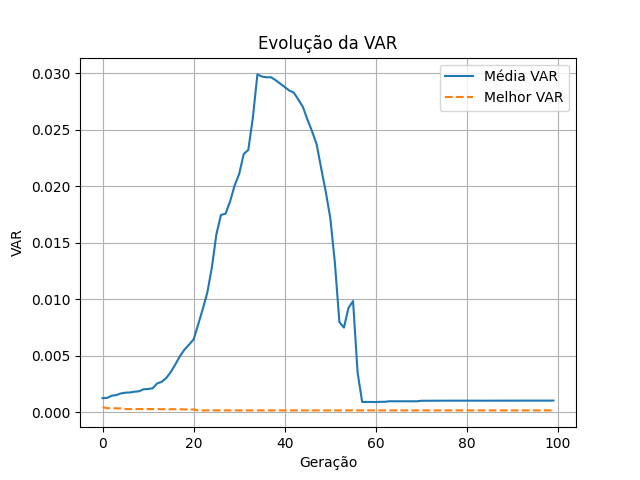
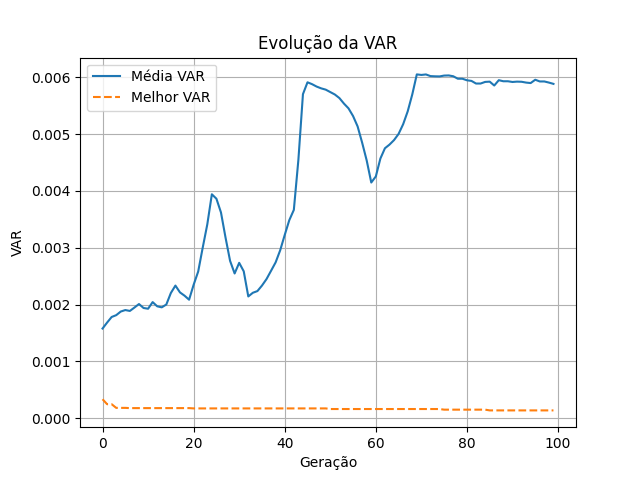
hdbscan

diff --git a/utils.py b/utils.py
@@ -27,36 +27,77 @@ def selecionar_tickers_representativos(
     df_filtrado: pd.DataFrame, num_tickers: int
 ) -> Tuple[pd.DataFrame, List[str]]:
     """
-    Aplica HDBSCAN para selecionar os tickers mais representativos com base nos log_returns.
+    Aplica HDBSCAN para selecionar tickers representativos:
+    um ou mais por cluster, priorizando clusters maiores e centralidade.
 
     Args:
         df_filtrado: DataFrame com tickers completos.
-        num_tickers: Número de tickers representativos a retornar.
+        num_tickers: Número total de tickers representativos a retornar.
 
     Returns:
         df_final: DataFrame apenas com os tickers selecionados.
         tickers_selecionados: Lista de tickers mais representativos.
     """
+    # Pivotar log_returns por semana
     df_pivot = df_filtrado.pivot_table(
         index='ticker',
         columns=['year', 'month', 'week_start'],
         values='log_return'
     ).fillna(0)
 
-    X = StandardScaler().fit_transform(df_pivot)
+    # Padronizar
+    scaler = StandardScaler()
+    X = scaler.fit_transform(df_pivot)
 
+    # Rodar HDBSCAN
     clusterer = hdbscan.HDBSCAN(min_cluster_size=5)
     cluster_labels = clusterer.fit_predict(X)
 
+    # DataFrame com labels
     df_clusters = pd.DataFrame({
         'ticker': df_pivot.index,
         'cluster': cluster_labels
     })
 
-    maior_cluster = df_clusters['cluster'].value_counts().idxmax()
-    tickers_maior_cluster = df_clusters[df_clusters['cluster'] == maior_cluster]['ticker'].tolist()
+    # Agrupar tickers por cluster (excluindo outliers)
+    clusters_validos = df_clusters[df_clusters['cluster'] != -1].groupby('cluster')
 
-    tickers_selecionados = tickers_maior_cluster[:num_tickers]
+    # Organizar clusters por tamanho (decrescente)
+    clusters_ordenados = sorted(
+        clusters_validos.groups.items(),
+        key=lambda item: len(item[1]),
+        reverse=True
+    )
+
+    tickers_selecionados = []
+
+    # Adicionar representantes até alcançar o total desejado
+    i = 0
+    while len(tickers_selecionados) < num_tickers:
+        for cluster_id, indices_cluster in clusters_ordenados:
+            if len(tickers_selecionados) >= num_tickers:
+                break
+            if i >= len(indices_cluster):
+                continue  # Esse cluster não tem mais representantes
+
+            tickers_cluster = df_clusters.loc[indices_cluster, 'ticker'].values
+            X_cluster = X[indices_cluster]
+
+            # Centrôide do cluster
+            centroide = X_cluster.mean(axis=0)
+
+            # Distâncias ao centróide
+            distancias = np.linalg.norm(X_cluster - centroide, axis=1)
+
+            # Ordenar os tickers do cluster por distância ao centróide
+            ordenacao = np.argsort(distancias)
+            if i < len(ordenacao):
+                ticker = tickers_cluster[ordenacao[i]]
+                if ticker not in tickers_selecionados:
+                    tickers_selecionados.append(ticker)
+        i += 1
+
+    # Filtrar DataFrame original
     df_final = df_filtrado[df_filtrado['ticker'].isin(tickers_selecionados)]
 
     return df_final, tickers_selecionados
@@ -113,10 +154,8 @@ def feasible(individuo: List[float], n_ativos: int) -> bool:
 
     soma_pesos = pesos.sum()
     num_selecionados = selecionados.sum()
-    # DEBUG
-    print(f"[FEASIBLE] Soma pesos: {soma_pesos:.4f} | Selecionados: {num_selecionados} | Viável? {abs(soma_pesos - 1) <= 0.01 and num_selecionados > 1}")
 
-    return abs(soma_pesos - 1) <= 0.01 and num_selecionados >= 2
+    return abs(soma_pesos - 1) <= 0.01 and num_selecionados >= 4
 
 
 def distance(individuo: List[float], n_ativos: int) -> float:
@@ -131,10 +170,10 @@ def distance(individuo: List[float], n_ativos: int) -> float:
     pesos = pesos / soma_pesos
 
     # Penaliza se algum ativo ultrapassar 15% (0.15), não 95%
-    excesso_concentracao = max(0, max(pesos) - 0.15)
+    excesso_concentracao = max(0, max(pesos) - 0.80)
 
     # Penaliza também se menos de 2 ativos forem usados (reforço à factibilidade)
-    penalizacao_num_ativos = max(0, 2 - selecionados.sum()) * 0.5
+    penalizacao_num_ativos = max(0, 4 - selecionados.sum()) * 0.5
 
     distancia_soma = abs(1.0 - soma_pesos)
 

diff --git a/nsga2_v1.py b/nsga2_v1.py
@@ -18,7 +18,7 @@ from utils import (
 from functools import partial
 
 # ========== PARÂMETROS ========== #
-year = 2020
+year = 2023
 folder_path = "/mnt/c/Users/msses/Desktop/ETF/weekly_log_returns"
 num_tickers = 30
 BETA = .98
@@ -64,7 +64,7 @@ log_returns = df_pivot[tickers].values
 n_semanas, n_ativos = log_returns.shape
 
 # ========== DEAP SETUP ========== #
-creator.create("FitnessMulti", base.Fitness, weights=(1.0, -1.0))  # max retorno, min CVaR
+creator.create("FitnessMulti", base.Fitness, weights=(2.0, -1.0))  # max retorno, min CVaR
 creator.create("Individual", list, fitness=creator.FitnessMulti)
 
 def generate_valid_individual(
@@ -90,7 +90,7 @@ def generate_valid_individual(
     """
     while True:
         # Sorteia quantos ativos serão selecionados (mínimo 2)
-        n_selecionados = np.random.randint(2, n_ativos + 1)
+        n_selecionados = np.random.randint(4, n_ativos + 1)
 
         # Evita combinações impossíveis
         if n_selecionados * min_peso > 1.0 or n_selecionados * max_peso < 1.0:
@@ -107,7 +107,7 @@ def generate_valid_individual(
                 n=n_selecionados,
                 max_peso=max_peso,
                 min_peso=min_peso,
-                alpha_val=2.0,
+                alpha_val=1.0,
                 batch_size=100
             )
         except ValueError:
@@ -190,8 +190,6 @@ for gen in range(1, N_GEN + 1):
 
 
     invalid_ind = [ind for ind in offspring if not ind.fitness.valid]
-    for i, ind in enumerate(invalid_ind[:5]):
-        print(f"[INVALIDO] {i}: Viável? {feasible_fn(ind)} | Distância: {distance_fn(ind):.4f}")
     fitnesses = toolbox.map(toolbox.evaluate, invalid_ind)
     for ind, fit in zip(invalid_ind, fitnesses):
         ind.fitness.values = fit
@@ -199,9 +197,7 @@ for gen in range(1, N_GEN + 1):
     # Injetar diversidade
     num_novos = int(0.60 * POP_SIZE)
     novos_inds = [toolbox.individual() for _ in range(num_novos)]
-    
-    for i, ind in enumerate(novos_inds[:5]):  # limita a 5 para não poluir
-        print(f"[NOVO IND] {i}: Viável? {feasible_fn(ind)} | Distância: {distance_fn(ind):.4f}")
+
 
     fitnesses = toolbox.map(toolbox.evaluate, novos_inds)
     for ind, fit in zip(novos_inds, fitnesses):
